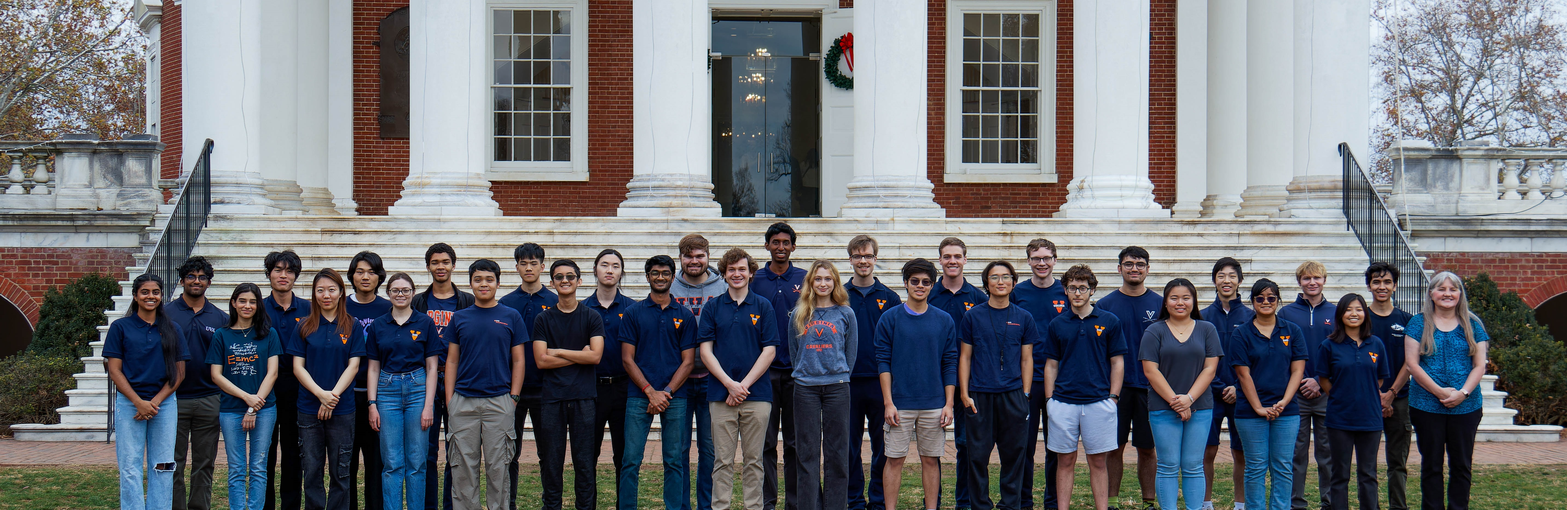
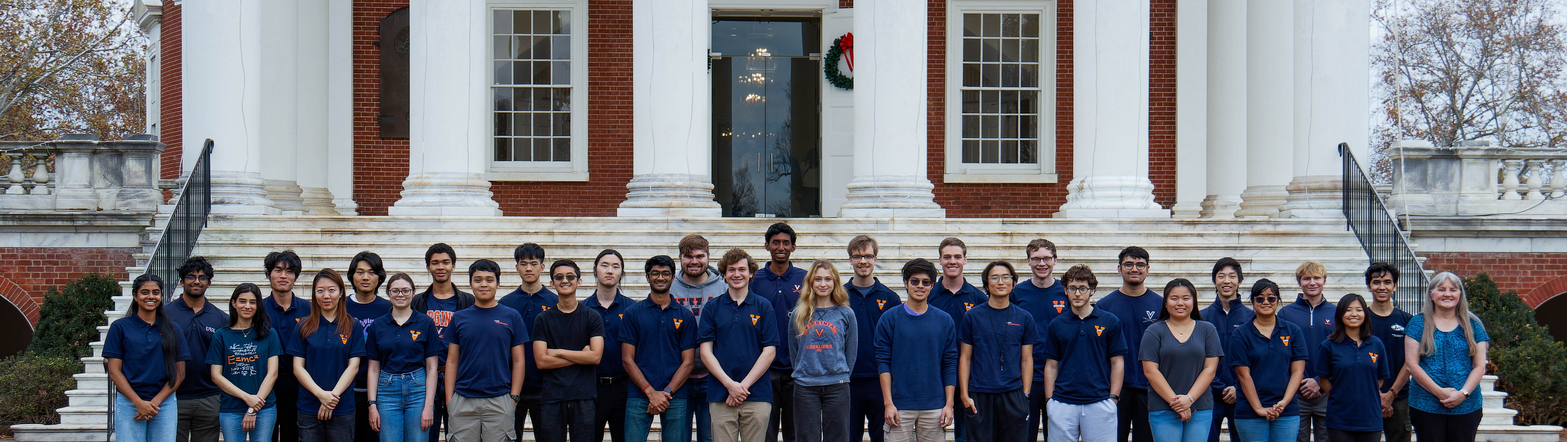
made shadowy thing at the top shorter to not cover our beautiful faces

diff --git a/index.html b/index.html
@@ -36,12 +36,13 @@
             height: 100vh;
             overflow: hidden;
             max-width: none;
+            width: 100%;
         }
 
         .maintitle {
             display: flex;
             flex-direction: column;
-            justify-content: center;
+            align-items: center;
             color: white;
             text-align: center;
             padding: 100px;
@@ -49,10 +50,11 @@
         }
 
         .maintitle h1 {
-            font-size: 5.5em;
+            font-size: 4.5em;
             margin: 0;
             z-index: 1;
             font-weight: bold;
+            max-width: 1400px;
         }
 
         .maintitle h2 {
@@ -64,7 +66,7 @@
 
         .fadingbox {
             width: 100%;
-            height: 100px;
+            height: 50px;
             background: linear-gradient(to bottom, rgba(0, 0, 0, 0.7), rgba(0, 0, 0, 0));
         }
 
